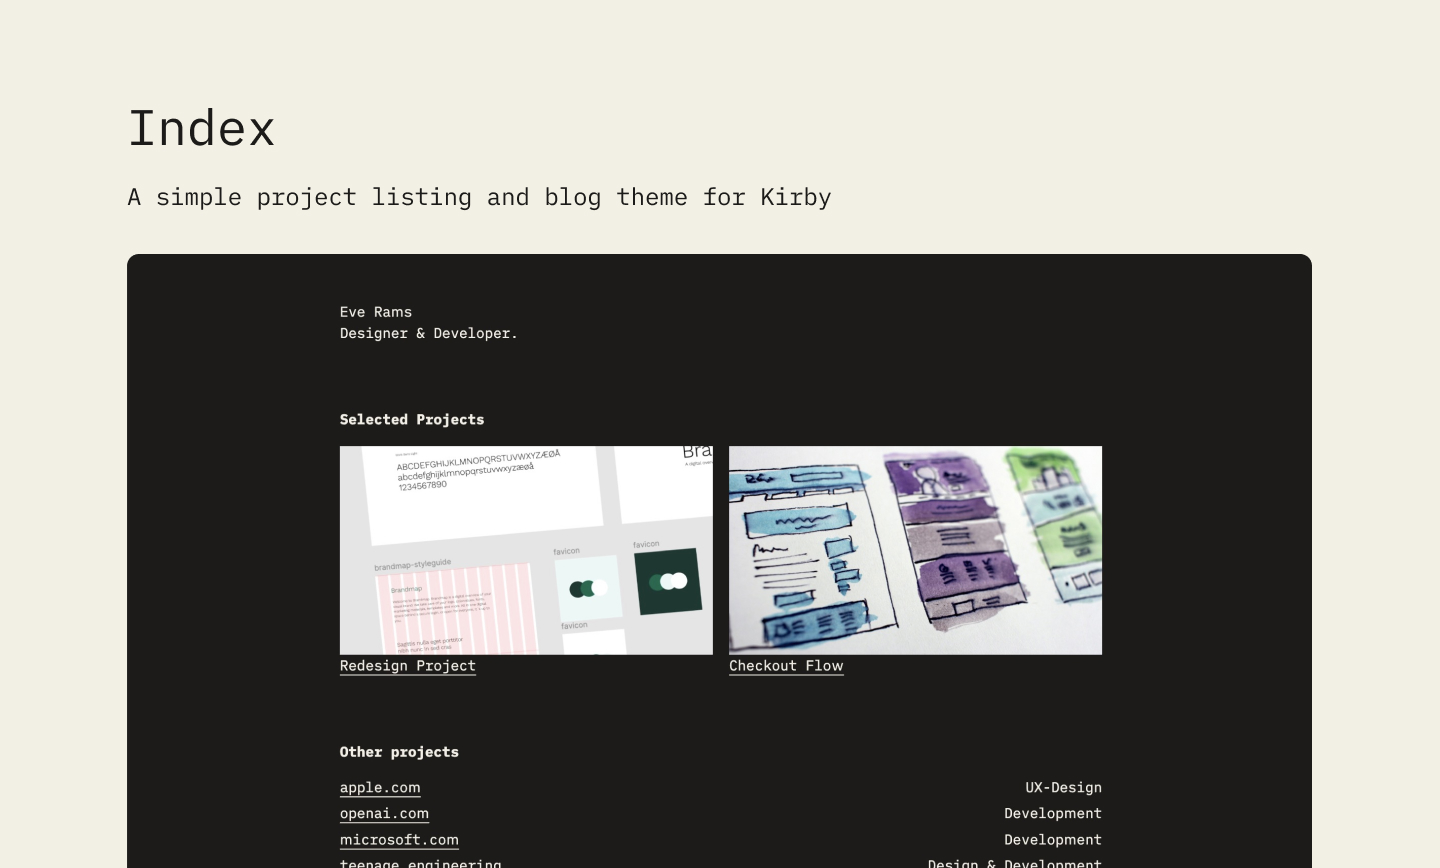
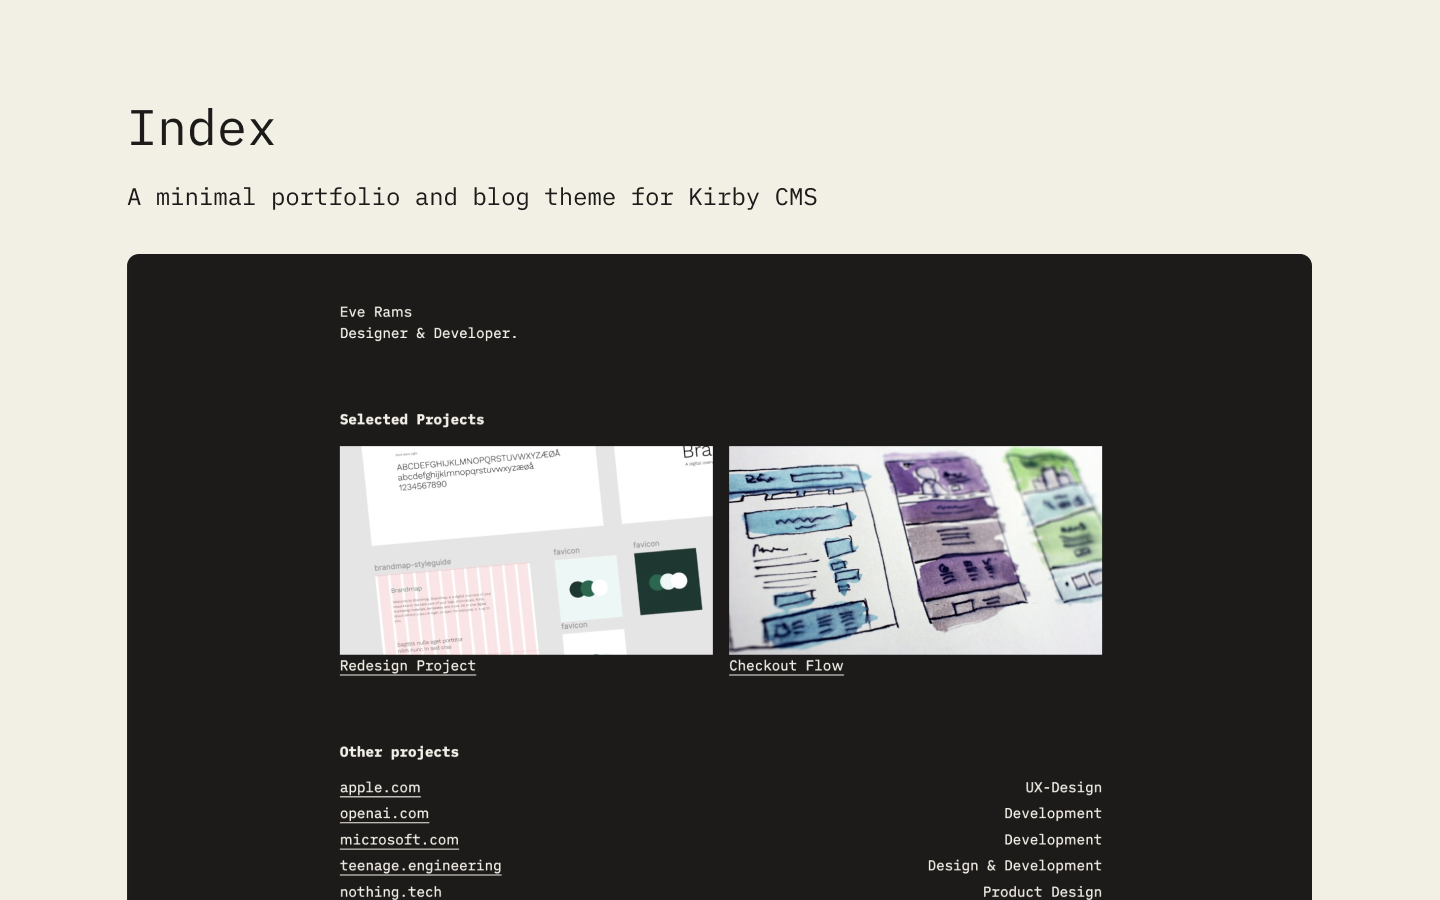
update theme wording and screenshot for clarity

diff --git a/README.md b/README.md
@@ -1,8 +1,8 @@
-# Index – A simple project listing and blog theme for Kirby
+# Index – A minimal portfolio and blog theme for Kirby CMS
 
 ![Screenshot of the Index Theme for Kirby CMS](kirby-index-theme-screenshot.jpg)
 
-A minimal Kirby theme for blogs and portfolios. Built for Kirby 5 + PHP 8.4.
+A minimal portfolio and blog theme for Kirby CMS. Built for Kirby 5 + PHP 8.4.
 
 Index is built for easy updates, not elaborate structure. No menu, no case studies, no complex navigation – because in my experience, that's where people get stuck and stop updating their portfolios.
 
